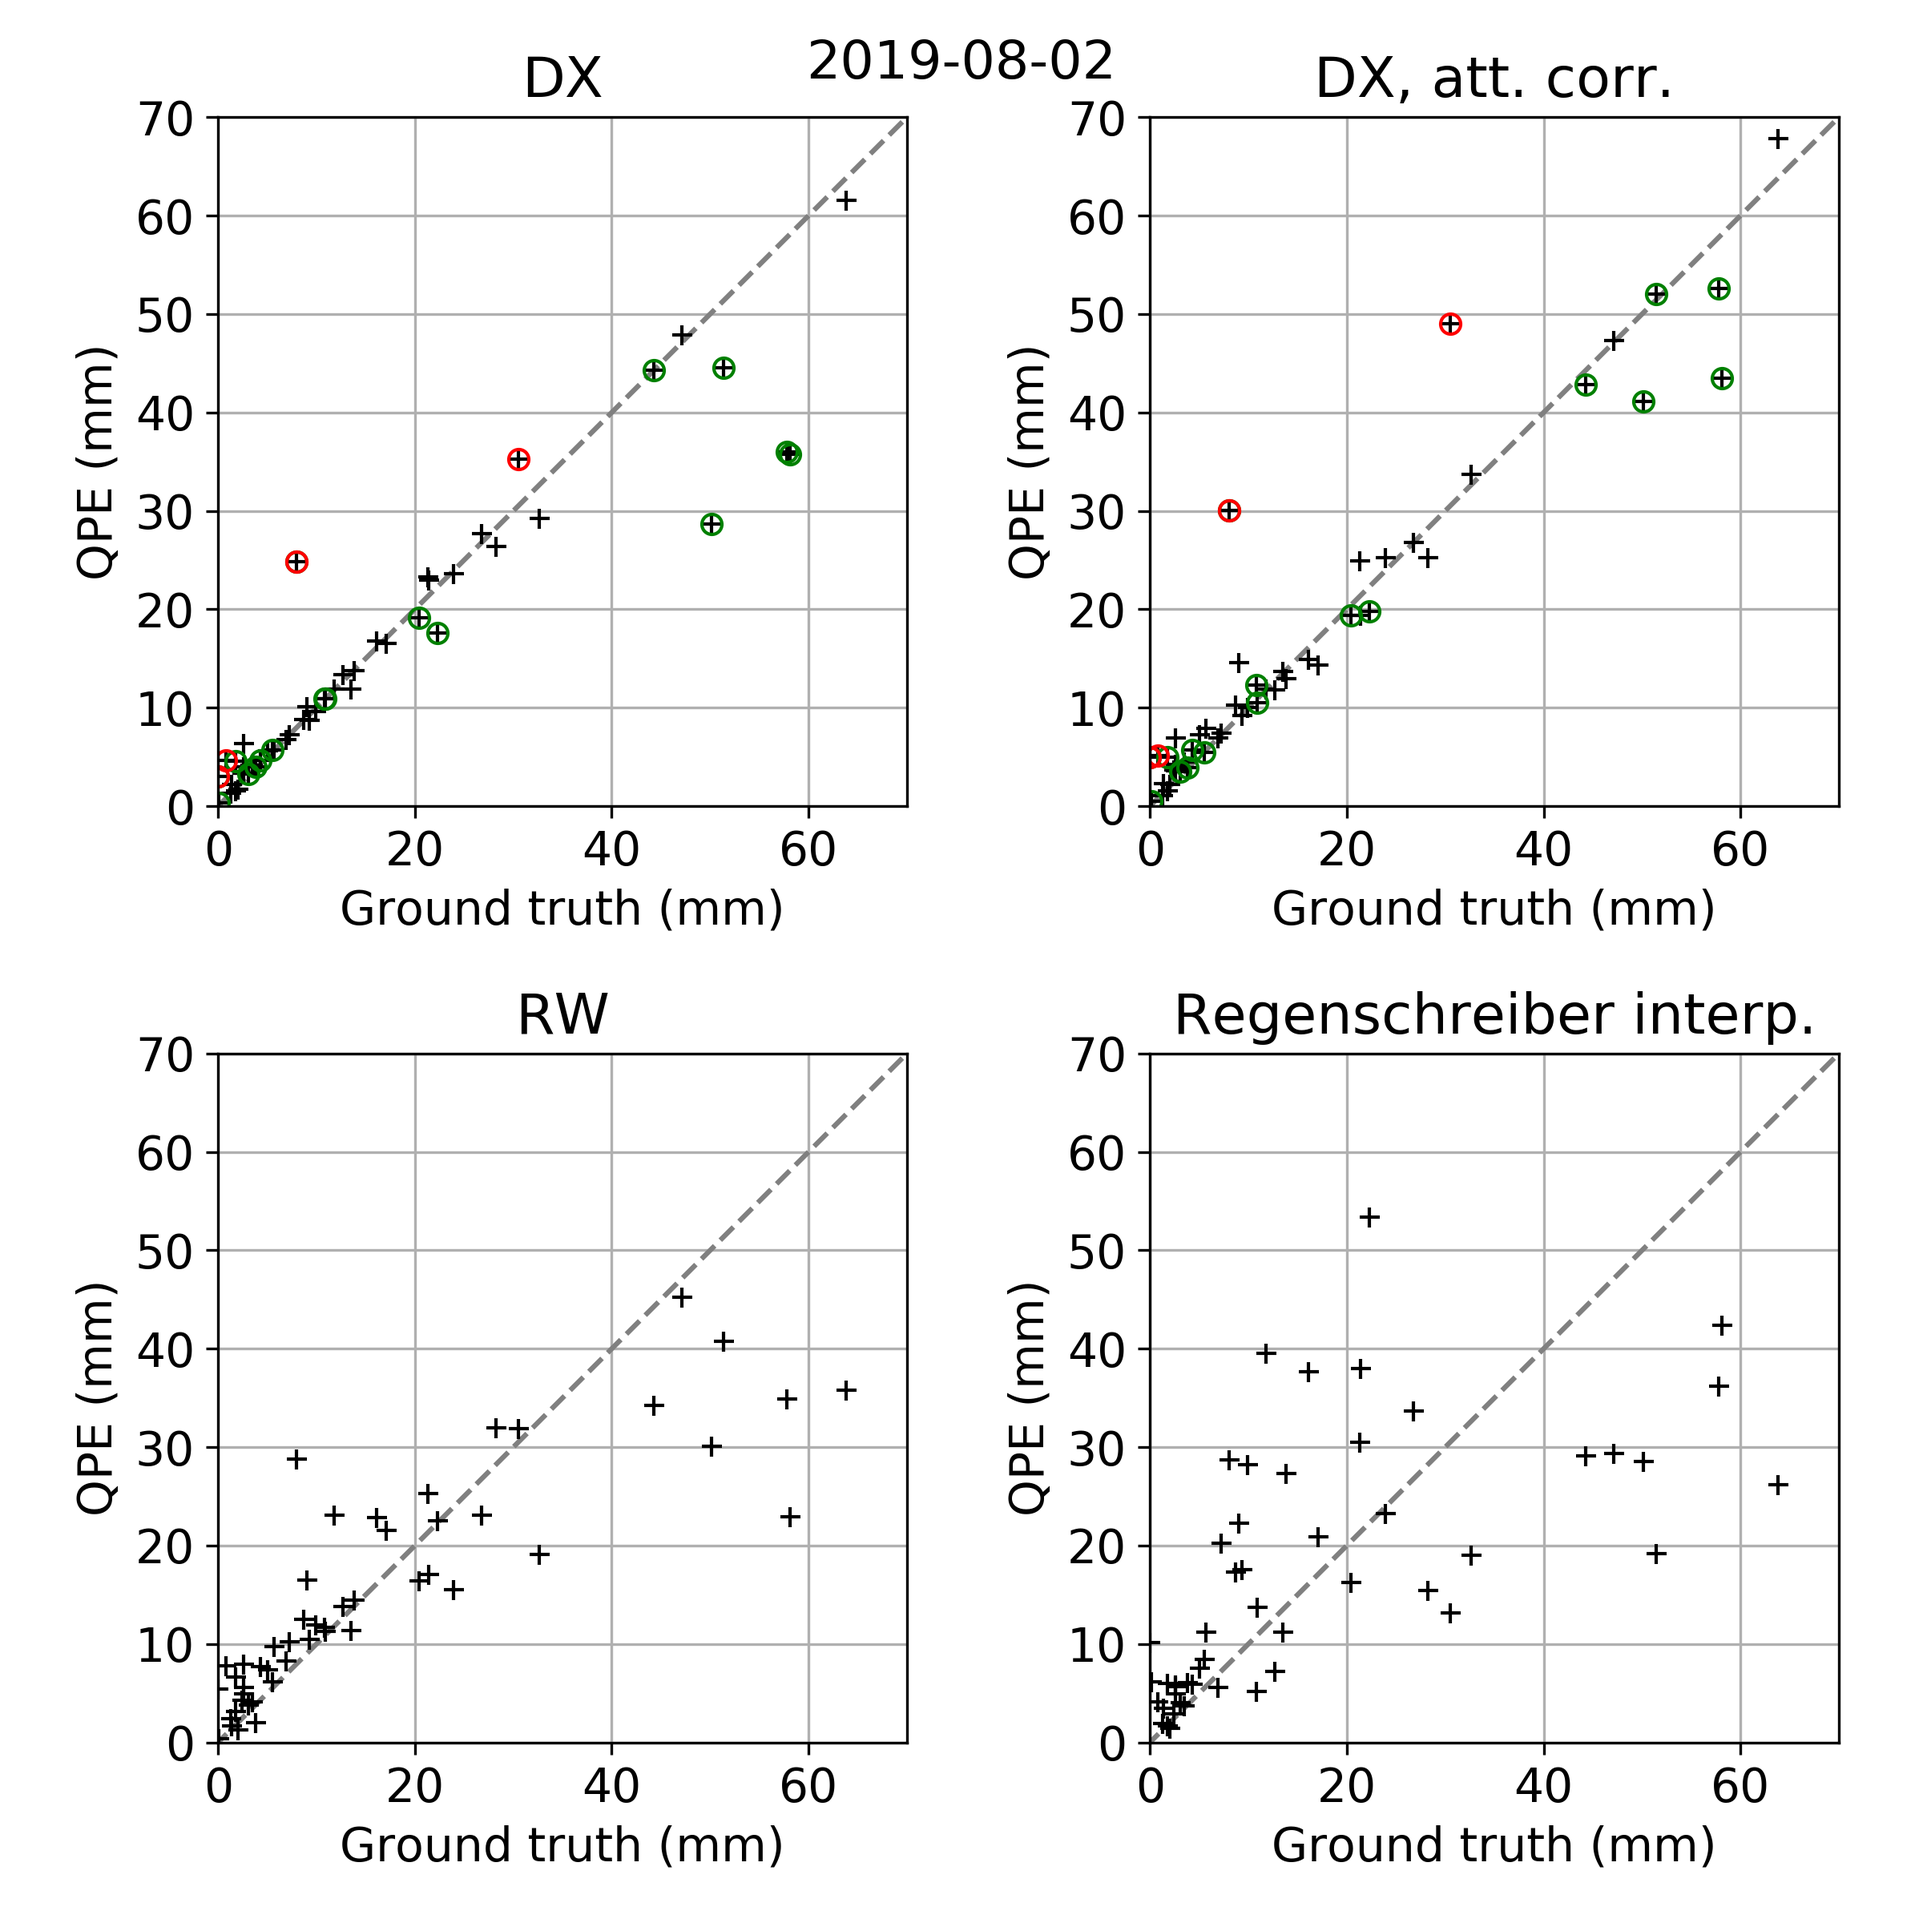
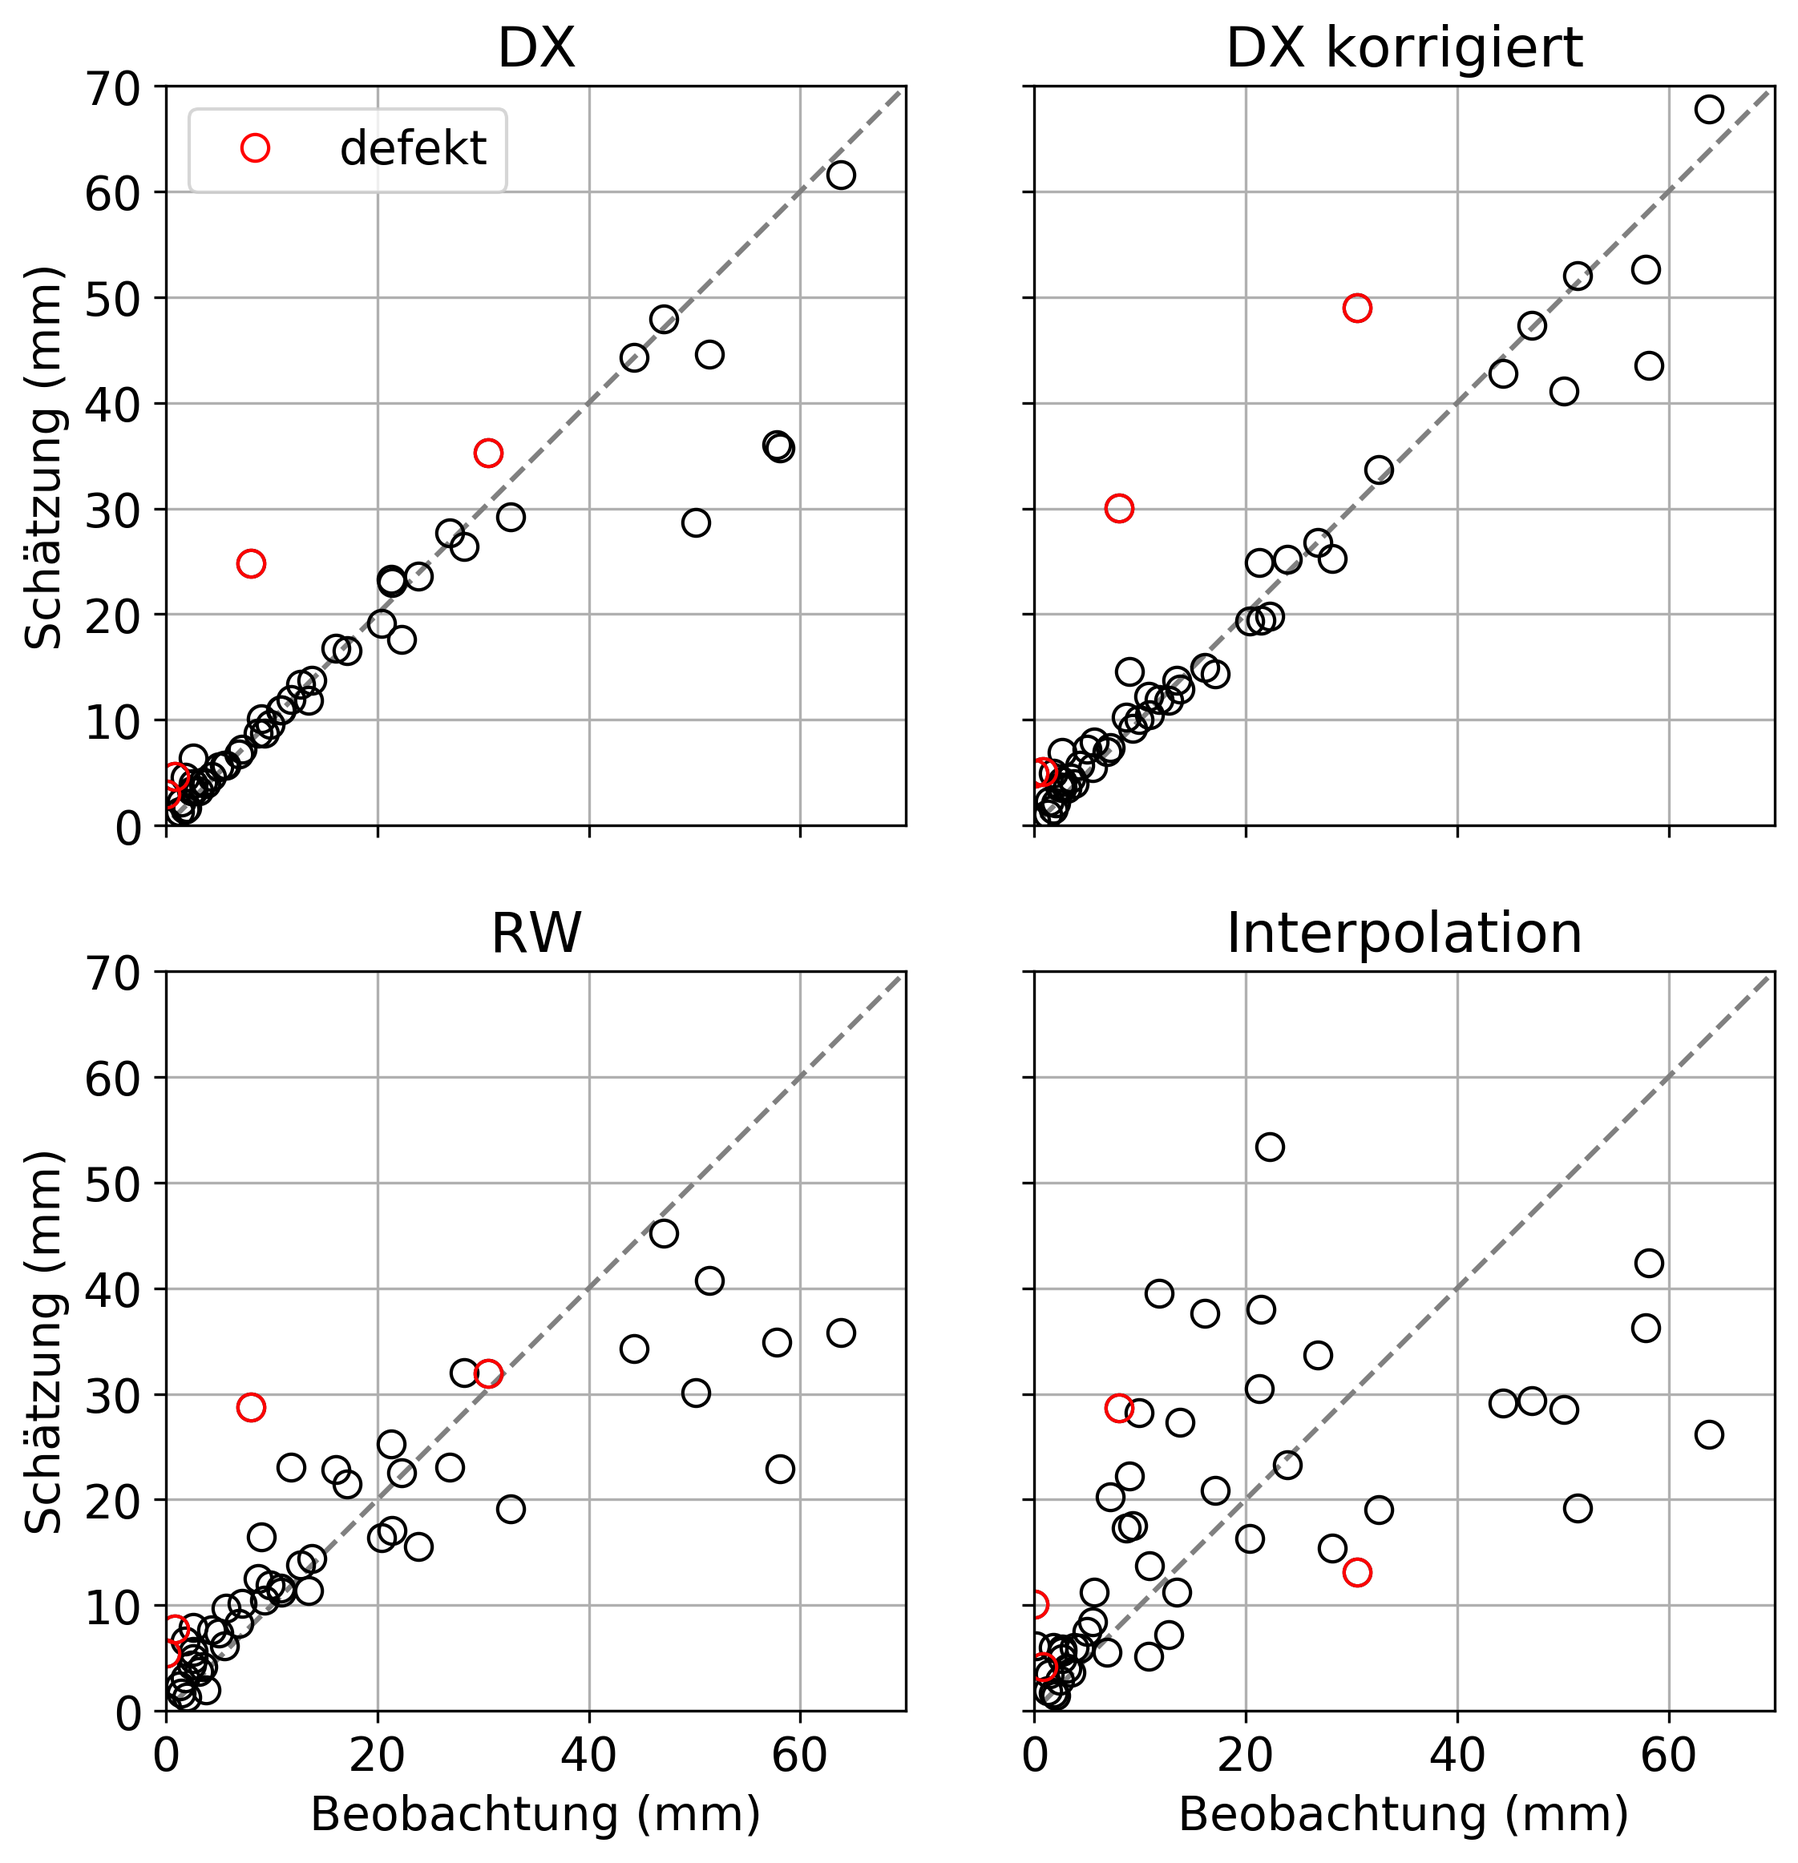
Add scatter

diff --git a/docs/index.md b/docs/index.md
@@ -1,5 +1,45 @@
-# Heavy rain in Berlin
+# Starkniederschlag in Berlin
 
-## August 2, 2019
+## Übersicht
 
+Diese Seite stellt ausgewählte Analysen von Starkniederschlagereignissen dar.
+Zu diesem Zweck wurden Radardaten (DX, RW) des Deutschen Wetterdienstes (DWD)
+sowie Messungen mit Regenschreibern der Berliner Wasserbetriebe genutzt. Die
+Verarbeitung der Daten erfolgte mit der Softwarebibliothek [wradlib](https://wradlib.org).
+
+Für jede Analyse wurden vier Produktvarianten untersucht:
+
+**DX**: ...
+
+**DX korrigiert**: ...
+
+**RW**: ...
+
+**Interpolation**: ...
+
+
+## 6. Juni 2019
+
+![rain map](https://github.com/heistermann/rain-in-berlin/raw/master/docs/events/rainmap_2019-06-06.png "Rainmap 2019-06-06")
+
+## 11. Juni 2019
+
+![rain map](https://github.com/heistermann/rain-in-berlin/raw/master/docs/events/rainmap_2019-06-11.png "Rainmap 2019-06-11")
+
+## 20. Juli 2019
+
+![rain map](https://github.com/heistermann/rain-in-berlin/raw/master/docs/events/rainmap_2019-07-20.png "Rainmap 2019-07-20")
+
+## 31. Juli 2019
+
+![rain map](https://github.com/heistermann/rain-in-berlin/raw/master/docs/events/rainmap_2019-07-31.png "Rainmap 2019-07-31")
+
+## 2. August 2
+
+### Kartendarstellung
 ![rain map](https://github.com/heistermann/rain-in-berlin/raw/master/docs/events/rainmap_2019-08-02.png "Rainmap 2019-08-02")
+
+Click [here](https://github.com/heistermann/rain-in-berlin/raw/master/docs/events/rainmap_2019-08-02.png) to enlarge in new tab.
+
+### Verifikation
+![rain map](https://github.com/heistermann/rain-in-berlin/raw/master/docs/events/scatter_2019-08-02.png "Verification 2019-08-02")
